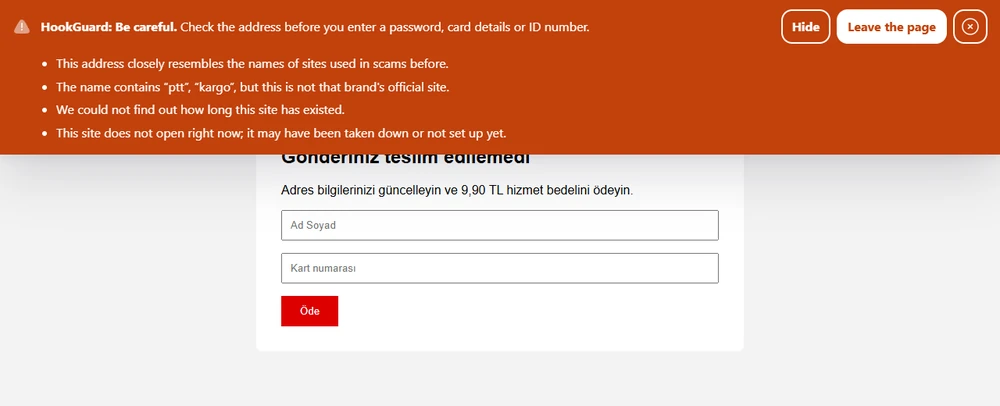
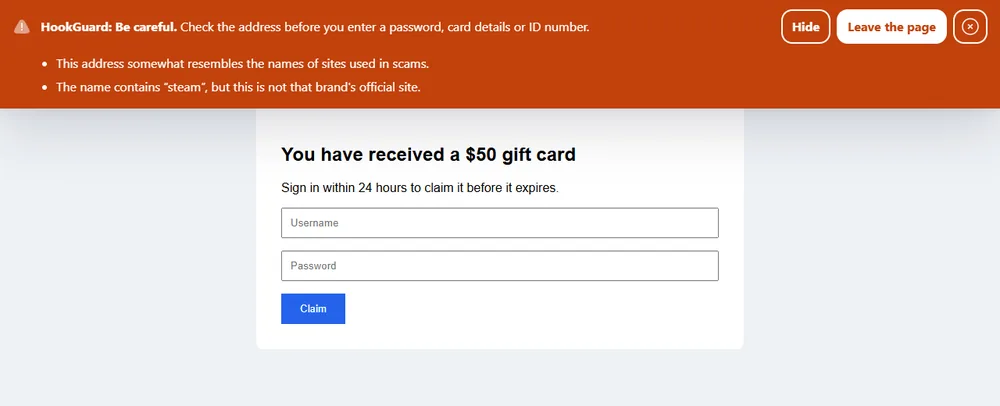
Use made-up international examples, add test addresses and new screenshots
- Examples in the page and the README no longer use Turkish brands or
  services; they are made-up .example names and paypal.com
- dhl-parcel-redelivery.example and paypal-account-verify.example are on
  the known-threat list on purpose, for trying HookGuard (TEST_ENTRIES)
- README: a "Try it" section with addresses to paste and links that the
  extension stops; screenshots made again

Changed region(s): [[0.0, 0.1478, 1.0, 0.4138], [0.279, 0.4433, 0.713, 0.8276]]

diff --git a/web/src/sections/ScamTypes.tsx b/web/src/sections/ScamTypes.tsx
@@ -9,7 +9,7 @@ type Type = { title: string; looks: string; watch: string[] };
 
 const TEXT: Record<"en" | "tr", { title: string; lead: string; looks: string; watch: string; types: Type[] }> = {
   en: {
-    title: "Common scams in Turkey",
+    title: "Common scams",
     lead: "The messages look different, but the aim is always the same: to rush you into giving away details or money.",
     looks: "What it looks like",
     watch: "What to watch for",
@@ -20,9 +20,9 @@ const TEXT: Record<"en" | "tr", { title: string; lead: string; looks: string; wa
         watch: ["Couriers never ask for a fee or card details to update an address.", "Track your parcel in the courier's own app or website."],
       },
       {
-        title: "e-Devlet and tax refunds",
-        looks: "“A tax refund of 1,250 TL has been issued to you. Log in with your e-Devlet details to receive it: …”",
-        watch: ["Government offices never send refund links by SMS.", "e-Devlet's only address is turkiye.gov.tr; a “refund” page asking for card details is fake."],
+        title: "Tax refunds and fines",
+        looks: "“A tax refund has been issued to you. Log in within 24 hours to receive it: …”",
+        watch: ["Government offices never send refund or fine links by SMS.", "Type the official site's address yourself; a “refund” page asking for card details is fake."],
       },
       {
         title: "“Your bank account is suspended”",
@@ -31,7 +31,7 @@ const TEXT: Record<"en" | "tr", { title: string; lead: string; looks: string; wa
       },
       {
         title: "Prize draws and campaigns",
-        looks: "“Congratulations! You won a phone in our supermarket draw. Just pay the 29 TL shipping fee: …”",
+        looks: "“Congratulations! You won a phone in our supermarket draw. Just pay the small shipping fee: …”",
         watch: ["You cannot win a draw you never entered.", "“Just pay the shipping” campaigns are there to steal your card details."],
       },
       {
@@ -41,7 +41,7 @@ const TEXT: Record<"en" | "tr", { title: string; lead: string; looks: string; wa
       },
       {
         title: "Illegal betting",
-        looks: "“500 TL trial bonus! Our new login address: …”",
+        looks: "“Free trial bonus! Our new login address: …”",
         watch: ["Unlicensed betting sites are illegal; their addresses change as they are blocked.", "You may never get your money back. For support: Yeşilay 115."],
       },
       {
@@ -51,13 +51,13 @@ const TEXT: Record<"en" | "tr", { title: string; lead: string; looks: string; wa
       },
       {
         title: "Fake virus warnings",
-        looks: "“WARNING! 5 viruses found on your computer. Call the support line now: 0850 …”",
+        looks: "“WARNING! 5 viruses found on your computer. Call the support line now: …”",
         watch: ["Virus warnings that appear in your browser are fake; your computer has no virus.", "Do not call, install nothing and give no one remote access."],
       },
     ],
   },
   tr: {
-    title: "Türkiye'de sık görülen dolandırıcılık türleri",
+    title: "Sık görülen dolandırıcılık türleri",
     lead: "Mesajlar farklı görünse de amaç hep aynı: seni acele ettirip bilgi ya da para almak.",
     looks: "Nasıl görünür?",
     watch: "Neye dikkat etmeli?",
@@ -68,9 +68,9 @@ const TEXT: Record<"en" | "tr", { title: string; lead: string; looks: string; wa
         watch: ["Kargo firmaları adres güncellemek için ücret ya da kart bilgisi istemez.", "Takip numarasını firmanın kendi uygulamasında ya da sitesinde sorgula."],
       },
       {
-        title: "e-Devlet ve vergi iadesi",
-        looks: "“Adınıza 1.250 TL vergi iadesi tanımlanmıştır. Almak için e-Devlet bilgilerinizle giriş yapın: …”",
-        watch: ["Devlet kurumları iade için SMS'le link göndermez.", "e-Devlet'in tek adresi turkiye.gov.tr'dir; kart bilgisi isteyen “iade” sayfası sahtedir."],
+        title: "Vergi iadesi ve cezalar",
+        looks: "“Adınıza vergi iadesi tanımlanmıştır. Almak için 24 saat içinde giriş yapın: …”",
+        watch: ["Devlet kurumları iade ya da ceza için SMS'le link göndermez.", "Resmi sitenin adresini kendin yaz; kart bilgisi isteyen “iade” sayfası sahtedir."],
       },
       {
         title: "“Banka hesabınız askıya alındı”",
@@ -79,7 +79,7 @@ const TEXT: Record<"en" | "tr", { title: string; lead: string; looks: string; wa
       },
       {
         title: "Çekiliş ve kampanya",
-        looks: "“Tebrikler! Market çekilişinde telefon kazandınız. Yalnızca 29 TL kargo ücretini ödeyin: …”",
+        looks: "“Tebrikler! Market çekilişinde telefon kazandınız. Yalnızca küçük bir kargo ücreti ödeyin: …”",
         watch: ["Katılmadığın bir çekilişi kazanamazsın.", "“Sadece kargo ücreti” isteyen kampanyalar kart bilgini çalmak içindir."],
       },
       {
@@ -89,7 +89,7 @@ const TEXT: Record<"en" | "tr", { title: string; lead: string; looks: string; wa
       },
       {
         title: "Yasadışı bahis",
-        looks: "“Deneme bonusu 500 TL! Güncel giriş adresimiz: …”",
+        looks: "“Ücretsiz deneme bonusu! Güncel giriş adresimiz: …”",
         watch: ["İzinsiz bahis siteleri yasa dışıdır; adresleri kapatıldıkça değişir.", "Yatırdığın parayı geri alamayabilirsin. Destek için Yeşilay 115."],
       },
       {
@@ -99,7 +99,7 @@ const TEXT: Record<"en" | "tr", { title: string; lead: string; looks: string; wa
       },
       {
         title: "Sahte virüs uyarısı",
-        looks: "“UYARI! Bilgisayarınızda 5 virüs bulundu. Hemen destek hattını arayın: 0850 …”",
+        looks: "“UYARI! Bilgisayarınızda 5 virüs bulundu. Hemen destek hattını arayın: …”",
         watch: ["Tarayıcıda çıkan virüs uyarıları sahtedir; bilgisayarında virüs yok.", "Numarayı arama, program yükleme, kimseye uzaktan erişim verme."],
       },
     ],

diff --git a/web/src/sections/Checker.tsx b/web/src/sections/Checker.tsx
@@ -21,7 +21,8 @@ import { extensionInstalled } from "../extension";
 const MIN_LOADING_MS = 400;
 
 // Made-up addresses on the reserved .example domain (they can never be real sites) and one official site.
-const EXAMPLES = ["ptt-kargo-odeme.example", "edevlet-giris-sorgu.example", "bahis-giris845.example", "turkiye.gov.tr"];
+// dhl-parcel-redelivery.example is on the known-threat list on purpose (TEST_ENTRIES in backend/references.py).
+const EXAMPLES = ["dhl-parcel-redelivery.example", "steam-gift-claim.example", "casino-bonus845.example", "paypal.com"];
 
 const TEXT = {
   en: {
@@ -55,7 +56,7 @@ const TEXT = {
     noDestination: "We could not find where this short link leads. Ask the person who sent it before you click.",
     phone: {
       label: "Example: a scam text message that HookGuard marks as dangerous",
-      sender: "+90 5•• ••• •• 37",
+      sender: "+•• •••• ••• 237",
       time: "Today 14:02",
       message: "Your parcel could not be delivered. Update your address within 24 hours:",
       verdict: "Dangerous",
@@ -93,7 +94,7 @@ const TEXT = {
     noDestination: "Bu kısa linkin nereye gittiğini bulamadık. Tıklamadan önce linki gönderen kişiye sor.",
     phone: {
       label: "Örnek: HookGuard'ın tehlikeli diye işaretlediği dolandırıcı bir SMS",
-      sender: "+90 5•• ••• •• 37",
+      sender: "+•• •••• ••• 237",
       time: "Bugün 14:02",
       message: "Kargonuz teslim edilemedi. 24 saat içinde adresinizi güncelleyin:",
       verdict: "Tehlikeli",
@@ -144,7 +145,7 @@ function PhoneScene({ t }: { t: Text["phone"] }) {
         </div>
         <p className="phone__time">{t.time}</p>
         <div className="phone__bubble">
-          {t.message} <span className="phone__link">ptt-kargo-odeme.example/t/8Kq2</span>
+          {t.message} <span className="phone__link">dhl-parcel-redelivery.example/t/8Kq2</span>
         </div>
         <motion.div
           className="phone__verdict tone-danger"

diff --git a/web/src/sections/Faq.tsx b/web/src/sections/Faq.tsx
@@ -23,7 +23,7 @@ const TEXT: Record<"en" | "tr", { title: string; items: { q: string; a: string[]
               "Short links (such as bit.ly) hide where they lead, and a web page cannot see it without opening them. The HookGuard extension can: it reads where they go on your computer.",
             ]
           : [
-              "The full link stays on your device. Only the domain reaches our server: from ptt-kargo-odeme.example/track?no=123, only “ptt-kargo-odeme.example”.",
+              "The full link stays on your device. Only the domain reaches our server: from dhl-parcel-redelivery.example/track?no=123, only “dhl-parcel-redelivery.example”.",
               "The addresses you check are not stored. Short links (such as bit.ly) are the one exception: to see where one leads, we ask you before sending the short link itself.",
             ],
       },
@@ -99,7 +99,7 @@ const TEXT: Record<"en" | "tr", { title: string; items: { q: string; a: string[]
               "Kısa linkler (bit.ly gibi) nereye gittiklerini gizler ve bir web sayfası onları açmadan bunu göremez. HookGuard eklentisi görebilir: nereye gittiklerini senin bilgisayarında okur.",
             ]
           : [
-              "Linkin tamamı senin cihazında kalır. Sunucumuza yalnızca alan adı gider: örneğin ptt-kargo-odeme.example/takip?no=123 linkinden yalnızca “ptt-kargo-odeme.example”.",
+              "Linkin tamamı senin cihazında kalır. Sunucumuza yalnızca alan adı gider: örneğin dhl-parcel-redelivery.example/track?no=123 linkinden yalnızca “dhl-parcel-redelivery.example”.",
               "Kontrol ettiğin adresler kaydedilmez. Tek istisna kısa linklerdir (bit.ly gibi): nereye gittiğini görmek istersen kısa linki sunucuya göndermek için ayrıca onay isteriz.",
             ],
       },

diff --git a/web/src/sections/ShortLinks.tsx b/web/src/sections/ShortLinks.tsx
@@ -43,7 +43,7 @@ const TEXT = {
     offline: "Could not connect. Check your internet connection and try again.",
     working: "Working…",
     why: [
-      ["Why are short links risky?", "Short links hide the real address. Scammers use them so you cannot see that “ptt-kargo” is not the real courier until it is too late."],
+      ["Why are short links risky?", "Short links hide the real address. Scammers use them so you cannot see that “dhl-parcel-redelivery” is not the real courier until it is too late."],
       ["How is a HookGuard short link different?", "Before anyone reaches the site, they see where the link goes and a fresh safety check. If the site turns dangerous later, they are warned."],
     ],
   },
@@ -77,7 +77,7 @@ const TEXT = {
     offline: "Bağlanılamadı. İnternet bağlantını kontrol edip yeniden dene.",
     working: "Hazırlanıyor…",
     why: [
-      ["Kısa linkler neden riskli?", "Kısa linkler asıl adresi gizler. Dolandırıcılar onları, “ptt-kargo”nun gerçek kargo firması olmadığını iş işten geçene kadar görmeyesin diye kullanır."],
+      ["Kısa linkler neden riskli?", "Kısa linkler asıl adresi gizler. Dolandırıcılar onları, “dhl-parcel-redelivery”nin gerçek kargo firması olmadığını iş işten geçene kadar görmeyesin diye kullanır."],
       ["HookGuard kısa linki neden farklı?", "Siteye ulaşmadan önce herkes linkin nereye gittiğini ve güncel bir güvenlik kontrolünü görür. Site sonradan tehlikeli hâle gelirse uyarılır."],
     ],
   },

diff --git a/shared/content.ts b/shared/content.ts
@@ -114,7 +114,7 @@ const en: Content = {
     steps: [
       "If you entered card or bank details, call your bank now (the number on the back of your card) and have the card blocked.",
       "If you entered a password, change it now, and everywhere else you use the same password.",
-      "If you entered your e-Devlet password, change your e-Devlet password.",
+      "If you entered a government or tax login, change that password too.",
       "If you installed an app on your phone, disconnect the phone from the internet and call your bank.",
       "If you lost money, go to the nearest police station or the public prosecutor's office.",
     ],
@@ -310,7 +310,7 @@ const tr: Content = {
     steps: [
       "Kart ya da banka bilgisi girdiysen hemen bankanı ara (kartının arkasındaki numara) ve kartını kapattır.",
       "Şifre girdiysen o şifreyi hemen değiştir; aynı şifreyi kullandığın her yerde de değiştir.",
-      "e-Devlet şifreni girdiysen e-Devlet şifreni değiştir.",
+      "Devlet ya da vergi sistemine giriş bilgilerini girdiysen o şifreyi de değiştir.",
       "Telefonuna bir uygulama yüklediysen telefonu internetten çıkar ve bankanı ara.",
       "Para kaybettiysen en yakın karakola ya da Cumhuriyet Başsavcılığına başvur.",
     ],

diff --git a/web/src/sections/ExtensionSection.tsx b/web/src/sections/ExtensionSection.tsx
@@ -82,7 +82,7 @@ const TEXT = {
   },
 };
 
-const MOCK = { domain: "ptt-kargo-odeme.example", level: "high" as const, score: 92, reasons: [], category: null };
+const MOCK = { domain: "dhl-parcel-redelivery.example", level: "high" as const, score: 92, reasons: [], category: null };
 
 export function ExtensionSection() {
   const t = TEXT[useLang()];
@@ -115,7 +115,7 @@ export function ExtensionSection() {
                 <i />
                 <i />
               </span>
-              <span className="mockup__url mono">ptt-kargo-odeme.example/track</span>
+              <span className="mockup__url mono">dhl-parcel-redelivery.example/track</span>
             </div>
             <div className="mockup__page" role="img" aria-label={t.sampleLabel}>
               <div className="mockup__brand">

diff --git a/shared/hookguard.ts b/shared/hookguard.ts
@@ -79,7 +79,7 @@ export function isIp(host: string): boolean {
 }
 
 /**
- * "https://user@Giris.Akbank.com.tr:8443/x?y=1" -> "giris.akbank.com.tr"; null if it is not a web address.
+ * "https://user@Login.Example-Bank.co.uk:8443/x?y=1" -> "login.example-bank.co.uk"; null if it is not a web address.
  * Defanged links from security reports ("hxxps://evil[.]com") are accepted too.
  */
 export function extractHost(input: string): string | null {

diff --git a/backend/references.py b/backend/references.py
@@ -14,6 +14,9 @@ Loaded once at startup:
 - The stage 1 lexical model, if external/stage1.joblib is present.
 - Reviewed user reports (data/community_blocklist.csv, see reports.py): scams join the
   USOM names, betting and adult sites become category overrides.
+- TEST_ENTRIES: made-up names that are always on the known-threat list, so that anyone can
+  see a known scam stopped, as antivirus test files do. They end in the reserved .example,
+  so they can never be real sites.
 """
 
 from __future__ import annotations
@@ -37,6 +40,9 @@ USOM_CSV = Path("data") / "usom_seen.csv"
 BRANDS_CSV = Path("data") / "tr_brands.csv"
 COMMUNITY_CSV = Path("data") / "community_blocklist.csv"
 TRANCO_ZIP = Path("external") / "tranco" / "top-1m.csv.zip"
+
+# On the known-threat list on purpose, for trying HookGuard (README, the web page's examples).
+TEST_ENTRIES = ("dhl-parcel-redelivery.example", "paypal-account-verify.example")
 
 TRANCO_TOP = 100_000  # ranks kept for the popularity check
 ALLOW_TOP = 10_000    # popular domains the extension need not ask about
@@ -77,6 +83,8 @@ class References:
     @classmethod
     def load(cls, root: Path = ROOT) -> References:
         usom = read_usom(root / USOM_CSV)
+        for name in TEST_ENTRIES:
+            usom.setdefault(name, UsomEntry("test", name, "", "PH"))
         categories = read_community(root / COMMUNITY_CSV, usom)
         official = {d: d for d in OFFICIAL_DOMAINS if d not in USER_CONTENT}
         brands = root / BRANDS_CSV

diff --git a/tests/test_api.py b/tests/test_api.py
@@ -4,6 +4,7 @@ import pytest
 from fastapi.testclient import TestClient
 
 from backend.app import create_app
+from backend.references import TEST_ENTRIES, References
 from tests.conftest import FakeLookups
 
 
@@ -159,3 +160,9 @@ def test_shorten_refuses_short_links_and_non_links(client):
     assert client.post("/api/shorten", json={"url": "ftp://files.example.com/x"}).status_code == 422
     assert client.get("/api/short/nope").status_code == 404
     assert client.get("/api/short/AbCdEf1").status_code == 404
+
+
+def test_test_entries_are_always_listed(tmp_path):
+    refs = References.load(tmp_path)  # no data at all
+    assert all(refs.usom_match(name) for name in TEST_ENTRIES)
+    assert all(name.endswith(".example") for name in TEST_ENTRIES)

diff --git a/README.md b/README.md
@@ -30,6 +30,25 @@ It comes in three parts:
 - **A browser extension** for Chrome, Edge and Firefox that stops dangerous sites before they open. It checks on your device too.
 - **An optional API** you can run yourself. It adds how long a site has existed and a safe link shortener.
 
+## Try it
+
+Paste any of these into the [web page](https://duranozcelik.github.io/hookguard/). They are made up: names ending in `.example` are reserved and can never be real sites, so they are safe to try anywhere.
+
+| Address | HookGuard says | Why |
+| --- | --- | --- |
+| `dhl-parcel-redelivery.example` | **Dangerous** | It is on the known-threat list. This address and `paypal-account-verify.example` are there on purpose, for testing, the way antivirus makers keep a harmless test file. |
+| `casino-bonus845.example` | **Dangerous**: illegal betting | A gambling word and a number at the end, as betting sites use when an old address is blocked |
+| `steam-gift-claim.example` | **Be careful** | A brand's name on a site that is not the brand's, and a name like those of scam sites |
+| `crypto-profit-daily.example` | **Be careful**: possible fake investment | Investment and profit words in the name |
+| `paypal.com` | **Looks safe** | PayPal's official site |
+
+With the extension installed, open these links and it stops them before they load:
+
+- [http://dhl-parcel-redelivery.example](http://dhl-parcel-redelivery.example/) shows the red warning page.
+- [http://casino-bonus845.example](http://casino-bonus845.example/) shows the illegal betting page, with a helpline.
+
+Without the extension your browser just says the site cannot be reached.
+
 ## What it looks like
 
 <table>
@@ -43,7 +62,7 @@ It comes in three parts:
   </tr>
   <tr>
     <td><img src="docs/images/extension-banner.webp" alt="An orange strip on top of a suspicious page"></td>
-    <td><img src="docs/images/short-links.webp" alt="The short links page with a safe short link and its check"></td>
+    <td><img src="docs/images/short-links.webp" alt="The short links page showing where a bit.ly link leads, and the check of that site"></td>
   </tr>
   <tr>
     <td><b>Be careful.</b> On suspicious pages an orange strip explains why, in a Shadow DOM the page cannot hide.</td>
@@ -91,7 +110,7 @@ A domain gets a score from 0 to 100. Below 40 it reads "Looks safe", 40 to 69 "B
 | On the known-threat list (USOM, Turkey's national CERT, plus reviewed user reports), or its parent domain is | at least 95 or 90 | yes |
 | It resolves to an IP address on that list | at least 85 | API only |
 | A machine-learning model of the name: character patterns of 4,400 phishing domains against 30,000 ordinary ones | up to 60 | yes |
-| A brand's name in a domain that is not the brand's; lure words such as "kampanya" or "hediye" | +10; +5 | yes |
+| A brand's name in a domain that is not the brand's; lure words of giveaway and campaign scams | +10; +5 | yes |
 | How long the domain has existed (RDAP, or WHOIS for `.tr`) | +20 if under a week old; −10 if over two years | API only |
 | A subdomain of a free hosting or dynamic DNS service; a bare IP address | +5; +25 | yes |
 | An official brand domain; one of the world's most visited sites | capped low | yes (top 10,000; the API knows the top 100,000) |
@@ -109,7 +128,7 @@ At the threshold it uses for alarms, the model catches about half of new phishin
 - Form protection, page signals and the weekly counts stay on the device.
 - To show where a short link leads, the extension asks the shortener (bit.ly, t.co, ...) for its redirect and never contacts the destination. The web page asks the extension, if it is installed.
 - Reports are GitHub issues, which are public; the form says so before it opens one.
-- With your own API, only the **domain** is sent, never the full link: from `ptt-kargo-odeme.example/track?no=123` the API receives `ptt-kargo-odeme.example`. It keeps queried domains in memory only. Its safe shortener stores the full link, because that is what a short link is.
+- With your own API, only the **domain** is sent, never the full link: from `dhl-parcel-redelivery.example/track?no=123` the API receives `dhl-parcel-redelivery.example`. It keeps queried domains in memory only. Its safe shortener stores the full link, because that is what a short link is.
 
 ## Getting started
 
@@ -218,6 +237,7 @@ The visual design follows `design-system/MASTER.md`. Components use only the tok
 
 ## Limitations
 
+- The name model learned from phishing aimed at Turkey. Lookalike names in other languages usually get "Be careful" rather than "Dangerous" until they are on the list.
 - In the browser there is no DNS and no registration date, so a brand-new scam site with an innocent-looking name can pass as "Looks safe" until it is on the list. Your own API adds those signals.
 - The lists are as fresh as the last push: the threat list is updated by hand with `tools/update_usom.py`.
 - The betting, investment and shop categories are rules, not trained models; there is no labelled data for them yet. The list of licensed Turkish betting sites (`LEGAL_BETTING` in `backend/categories.py`) must be kept current.

diff --git a/design-system/MASTER.md b/design-system/MASTER.md
@@ -217,7 +217,7 @@ Doğrulanmış ikon adları:
   | Tür | İkon |
   |---|---|
   | Kargo | `delivery-bold-duotone` |
-  | e-Devlet / vergi | `document-text-bold-duotone` |
+  | Vergi iadesi ve cezalar | `document-text-bold-duotone` |
   | Banka | `card-bold-duotone` |
   | Çekiliş / kampanya | `gift-bold-duotone` |
   | Yatırım | `graph-up-bold-duotone` |
@@ -271,7 +271,7 @@ Doğrulanmış ikon adları:
 | DNS çözülüyor / yok | "Site şu an açılabiliyor" / "Site şu an açılmıyor" |
 | Paylaşımlı platform | "Herkesin ücretsiz site açabildiği bir hizmetin üzerinde" |
 | Oltalama / phishing | "dolandırıcılık sitesi" (ilk geçişte gerekirse "sahte site") |
-| Alan adı | "alan adı" (ör. `ptt.gov.tr`); gizlilik notunda "linkin tamamı değil, yalnızca alan adı" |
+| Alan adı | "alan adı" (ör. `paypal.com`); gizlilik notunda "linkin tamamı değil, yalnızca alan adı" |
 
 **Hiç kullanılmayacaklar:**
 - korku dili ("Hacklendin!", "Hemen!!!", tamamı büyük harf);
